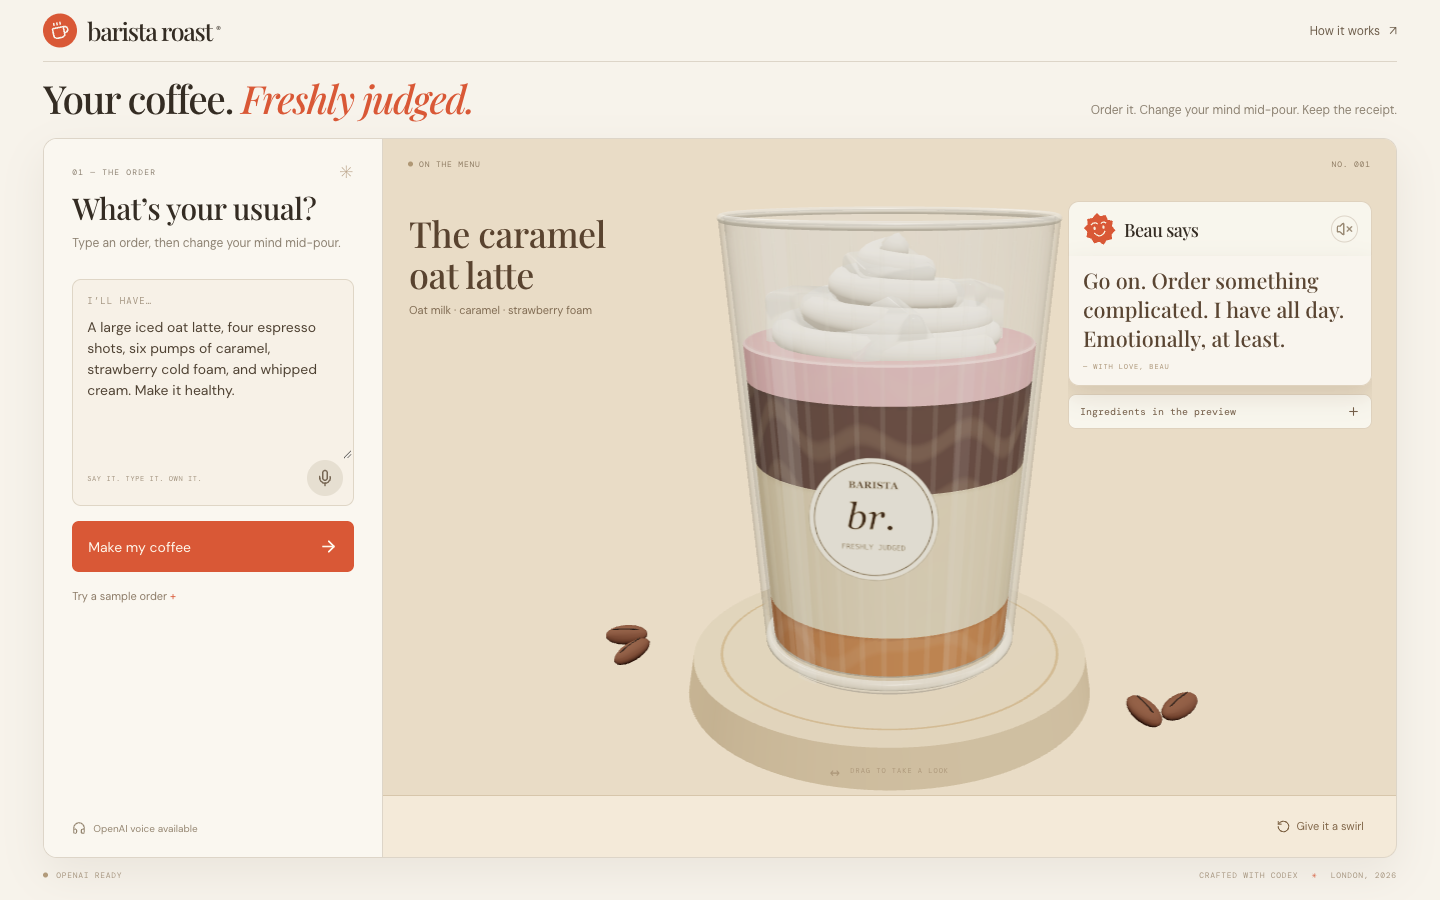
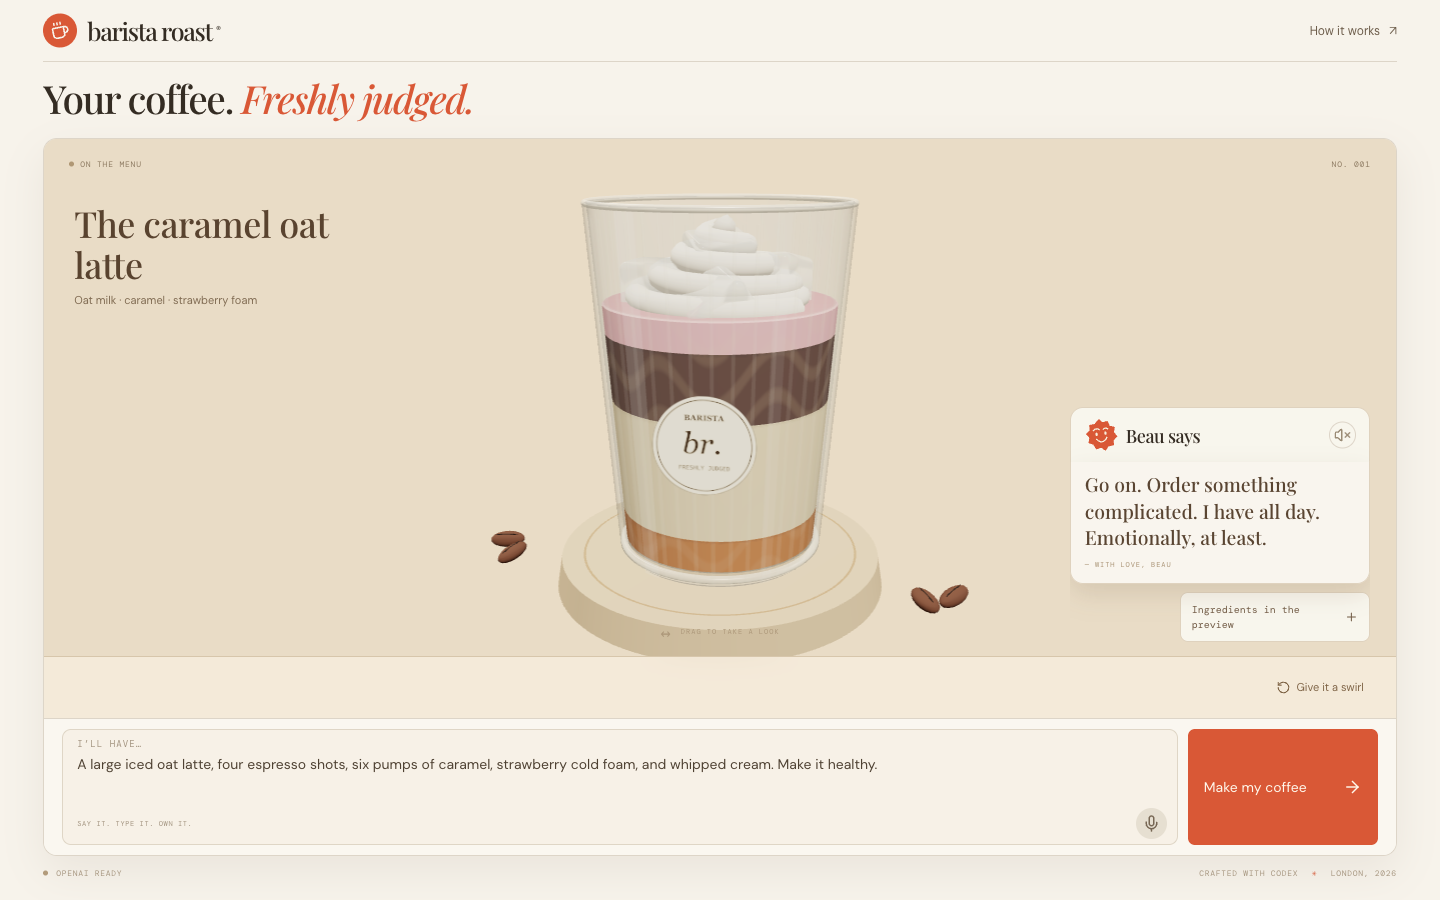
Put the coffee stage first and sharpen Beau first impressions

diff --git a/components/CoffeeLab.tsx b/components/CoffeeLab.tsx
@@ -61,6 +61,20 @@ function revisionQuip(order: string, poured: Poured, fallback: string): string {
   return `Already in the glass: ${already}. I can rewrite the rest; this cup keeps receipts.`;
 }
 
+function firstImpression(recipe: Recipe): string {
+  const quantity = (id: IngredientId) => recipe.ingredients.find(item => item.id === id)?.quantity ?? 0;
+  const milk = quantity('oat') + quantity('milk') + quantity('almond') + quantity('soy');
+  if (quantity('espresso') >= 5 && !milk) return 'I’m guessing your inbox has asked for a day off. That espresso order has already opened six tabs.';
+  if (quantity('strawberry') && quantity('whipped')) return 'I’m guessing your coffee has a playlist and a dramatic entrance. Strawberry foam brought the costume department.';
+  if (quantity('matcha') && quantity('vanilla')) return 'I’m guessing you judge café lighting before the menu. Matcha and vanilla have requested flattering angles.';
+  if (quantity('espresso') >= 4 && quantity('caramel') >= 3) return 'I’m guessing “just a quick coffee” takes up your whole calendar. Caramel and espresso brought an entourage.';
+  if (quantity('strawberry')) return 'Strawberry foam on coffee? I’m guessing this cup has a group chat and insists it is the main character.';
+  if (quantity('matcha')) return 'I’m guessing your coffee has opinions about the playlist. Matcha certainly does.';
+  if (quantity('espresso') >= 4) return 'I’m guessing your to-do list is afraid of you. That espresso has already started the first task.';
+  if (quantity('caramel')) return 'I’m guessing you asked for a coffee and invited dessert as your plus-one. Caramel accepted immediately.';
+  return buildRoast(recipe);
+}
+
 function BaristaFace() { return <svg viewBox="0 0 80 80" aria-hidden="true"><path d="m40 2 8 9 12-2 3 12 12 5-4 12 7 10-10 8-1 12-13 1-8 9-10-8-12 2-5-12-11-5 4-12-7-10 10-8 1-12 13-1Z" fill="currentColor"/><path d="M23 28c5-5 11-5 15-1m9 0c4-3 8-2 11 1" stroke="#f7eddb" fill="none" strokeWidth="3" strokeLinecap="round"/><ellipse cx="30" cy="37" rx="2.8" ry="4" fill="#f7eddb"/><ellipse cx="51" cy="37" rx="2.8" ry="4" fill="#f7eddb"/><path d="M28 48c6 11 19 11 25-1" stroke="#f7eddb" strokeWidth="3" fill="none" strokeLinecap="round"/></svg>; }
 
 function Modal({children,onClose,label}:{children:ReactNode;onClose:()=>void;label:string}) {
@@ -124,8 +138,8 @@ export default function CoffeeLab() {
         result={...reconciled,warnings:[...new Set([...reconciled.warnings,...reconciled.recipe.notes])],commentary:buildRoast(reconciled.recipe),source:'local'};
       }
       if(id!==requestId.current)return;
-      quipHoldUntil.current=performance.now()+2500;
-      setCommentary(isChange?revisionQuip(text,poured,result.commentary):result.commentary);setSource(result.source);setWarnings(result.warnings);setStirred(false);setReceiptSaved(false);
+      quipHoldUntil.current=performance.now()+4200;
+      setCommentary(isChange?revisionQuip(text,poured,result.commentary):firstImpression(result.recipe));setSource(result.source);setWarnings(result.warnings);setStirred(false);setReceiptSaved(false);
       if(isChange){dispatch({type:'revise',recipe:result.recipe});setChange('');playSound('pop',sound);}
       else{dispatch({type:'start',recipe:result.recipe});playSound('start',sound);if(window.innerWidth<621)scene.current?.scrollIntoView({behavior:'smooth',block:'start'});}
     }catch{setVoiceStatus('Could not read that order. Try “an iced oat latte”.');}

diff --git a/app/globals.css b/app/globals.css
@@ -139,3 +139,37 @@
   .recipe-ledger,.score-rules{margin-top:8px}
   .bottom-strip{flex-direction:row;align-items:center;gap:10px;font-size:7px;text-align:right}
 }
+
+/* One coffee stage, with ordering kept in a compact rail below it. */
+@media(min-width:901px){
+  .intro-copy{display:none}
+  .lab-grid{grid-template-columns:minmax(0,1fr);grid-template-rows:minmax(0,1fr) auto;height:clamp(650px,calc(100svh - 182px),860px);min-height:0;overflow:hidden}
+  .scene-panel{grid-column:1;grid-row:1;min-height:0;border:0}
+  .scene-caption{top:55px;left:30px;max-width:270px}
+  .barista-panel{top:auto;right:26px;bottom:76px;width:300px;max-height:calc(100% - 125px)}
+  .barista-profile{border-radius:13px 13px 0 0}
+  .speech-bubble{border-radius:0 0 13px 13px}
+  .speech-bubble p{font-size:clamp(17px,1.35vw,21px)}
+  .score-section{width:190px;margin-left:auto}
+  .recipe-ledger,.score-rules{margin-left:auto;width:190px}
+  .order-panel{grid-column:1;grid-row:2;display:flex;align-items:center;min-height:125px;padding:10px 18px;border-top:1px solid var(--line);background:#faf7f0}
+  .order-panel .panel-kicker,.order-panel h2,.order-panel .panel-copy,.order-bottom,.sample-picker{display:none}
+  .order-panel form{display:grid;grid-template-columns:minmax(0,1fr) 190px;align-items:stretch;gap:10px;width:100%;margin:0!important}
+  .order-input textarea{min-height:58px;height:58px;padding:5px 14px;line-height:1.3;resize:none}
+  .order-input label{padding-top:8px}
+  .input-foot{padding-bottom:5px}
+  .mic-button{width:31px;height:31px}
+  .order-panel .primary-button{margin:0;min-height:100%}
+  .order-panel:has(.change-options){min-height:155px}
+  .order-panel:has(.change-options) form{grid-template-columns:minmax(0,1fr) 265px 190px;align-items:center}
+  .order-panel:has(.change-options) .order-input{grid-column:1;grid-row:1/3}
+  .order-panel:has(.change-options) .change-options{grid-column:2;grid-row:1/3;margin:0}
+  .order-panel:has(.change-options) .primary-button{grid-column:3;grid-row:1;min-height:68px}
+  .order-panel:has(.change-options) .resume-button{grid-column:3;grid-row:2;margin:0}
+  .order-running{display:flex;align-items:center;gap:20px;margin:0}
+  .order-running>p{font-size:17px;line-height:1.25;max-width:750px}
+  .live-indicator{margin:0;white-space:nowrap}
+  .order-complete{display:flex;align-items:center;gap:18px;padding:0}
+  .order-complete .primary-button{width:240px;min-height:54px}
+  .order-panel .reality-note{position:absolute;left:18px;bottom:calc(100% + 8px);z-index:7;width:min(320px,32vw);max-height:125px;overflow:auto;margin:0;background:#faf7f0f2}
+}

diff --git a/README.md b/README.md
@@ -47,7 +47,7 @@ Also try “No caramel and add two espresso shots” or “Switch to oat milk”
 - Live immutable quantity ledger with pause/resume, future-plan reconciliation and capacity constraints.
 - Friendly ingredient-grounded commentary and deterministic scores with visible arithmetic.
 - Optional sound cues, orbit interaction, a swirl effect, final reveal and a downloadable receipt.
-- Coffee-first two-column stage on laptop/projector, compact order input and microphone, Beau and chaos score beside the cup, collapsed detail controls, mobile layout, keyboard controls, modal focus handling and reduced CSS motion.
+- Full-width coffee stage on laptop/projector, compact order bar and microphone, Beau and chaos score beside the cup, collapsed detail controls, mobile layout, keyboard controls, modal focus handling and reduced CSS motion.
 - Browser speech recognition when supported; failure leaves text fully usable.
 - Optional server-side OpenAI interpretation, final roast and recorded-audio transcription, with timeouts and local fallback.
 
